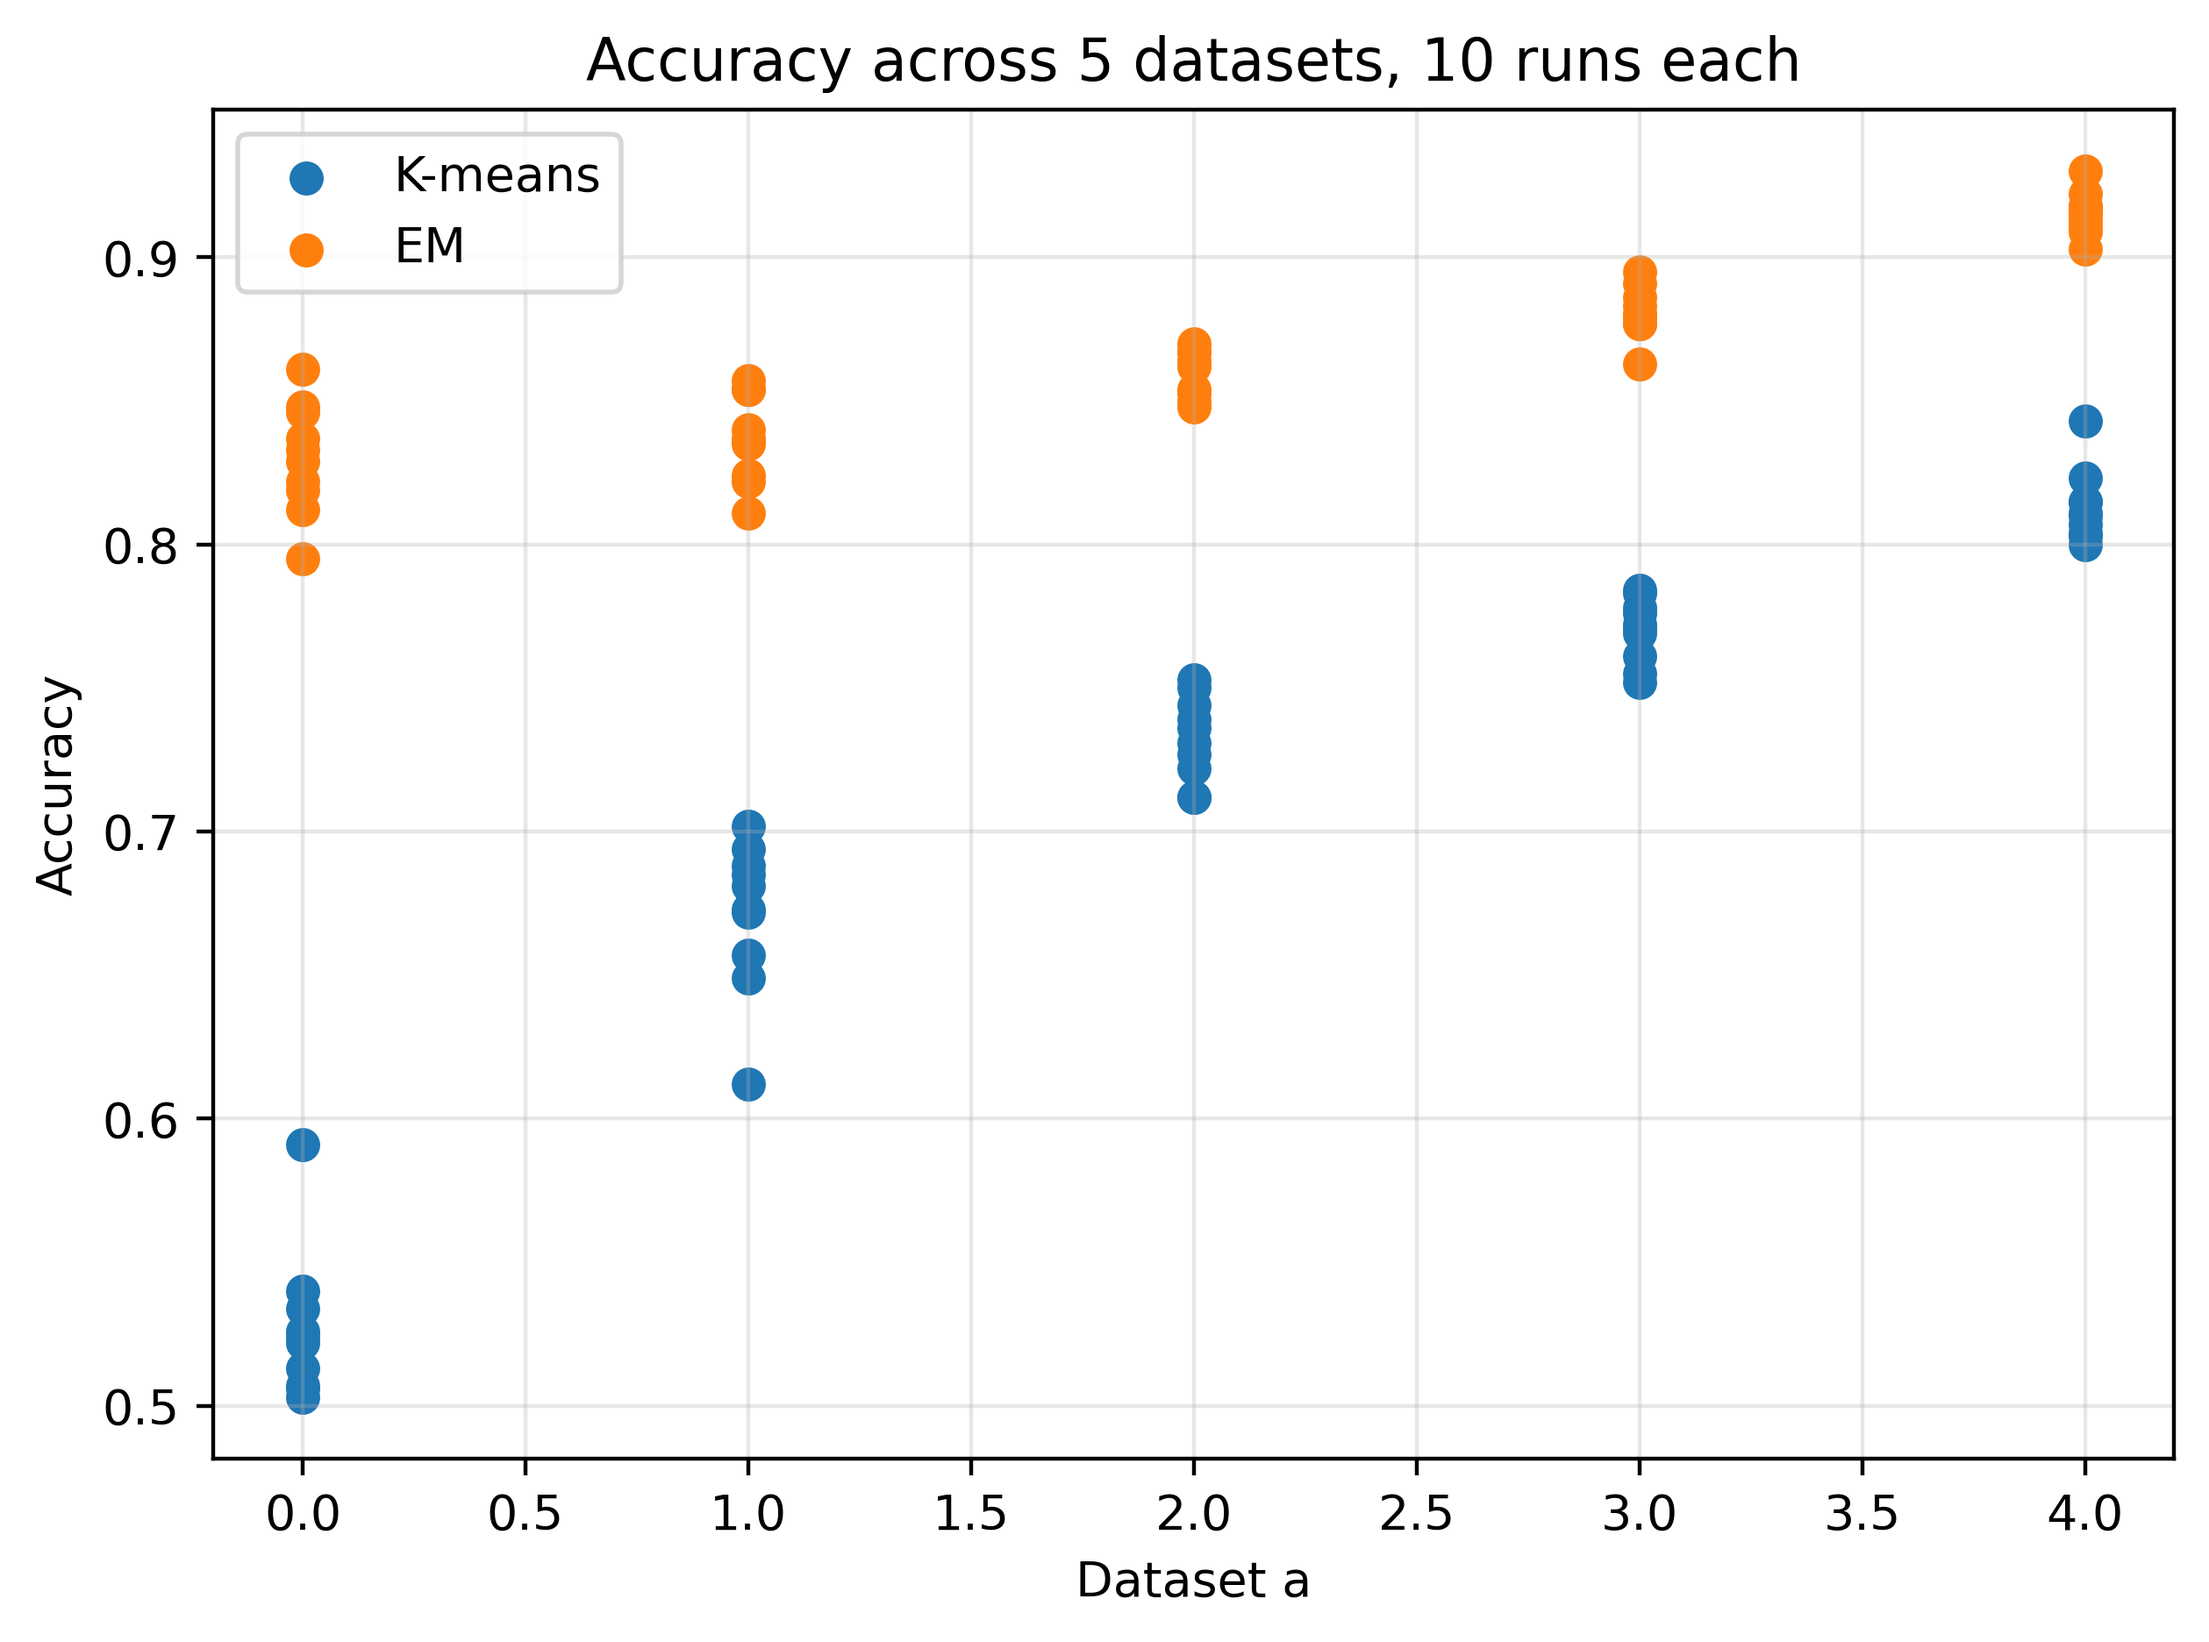
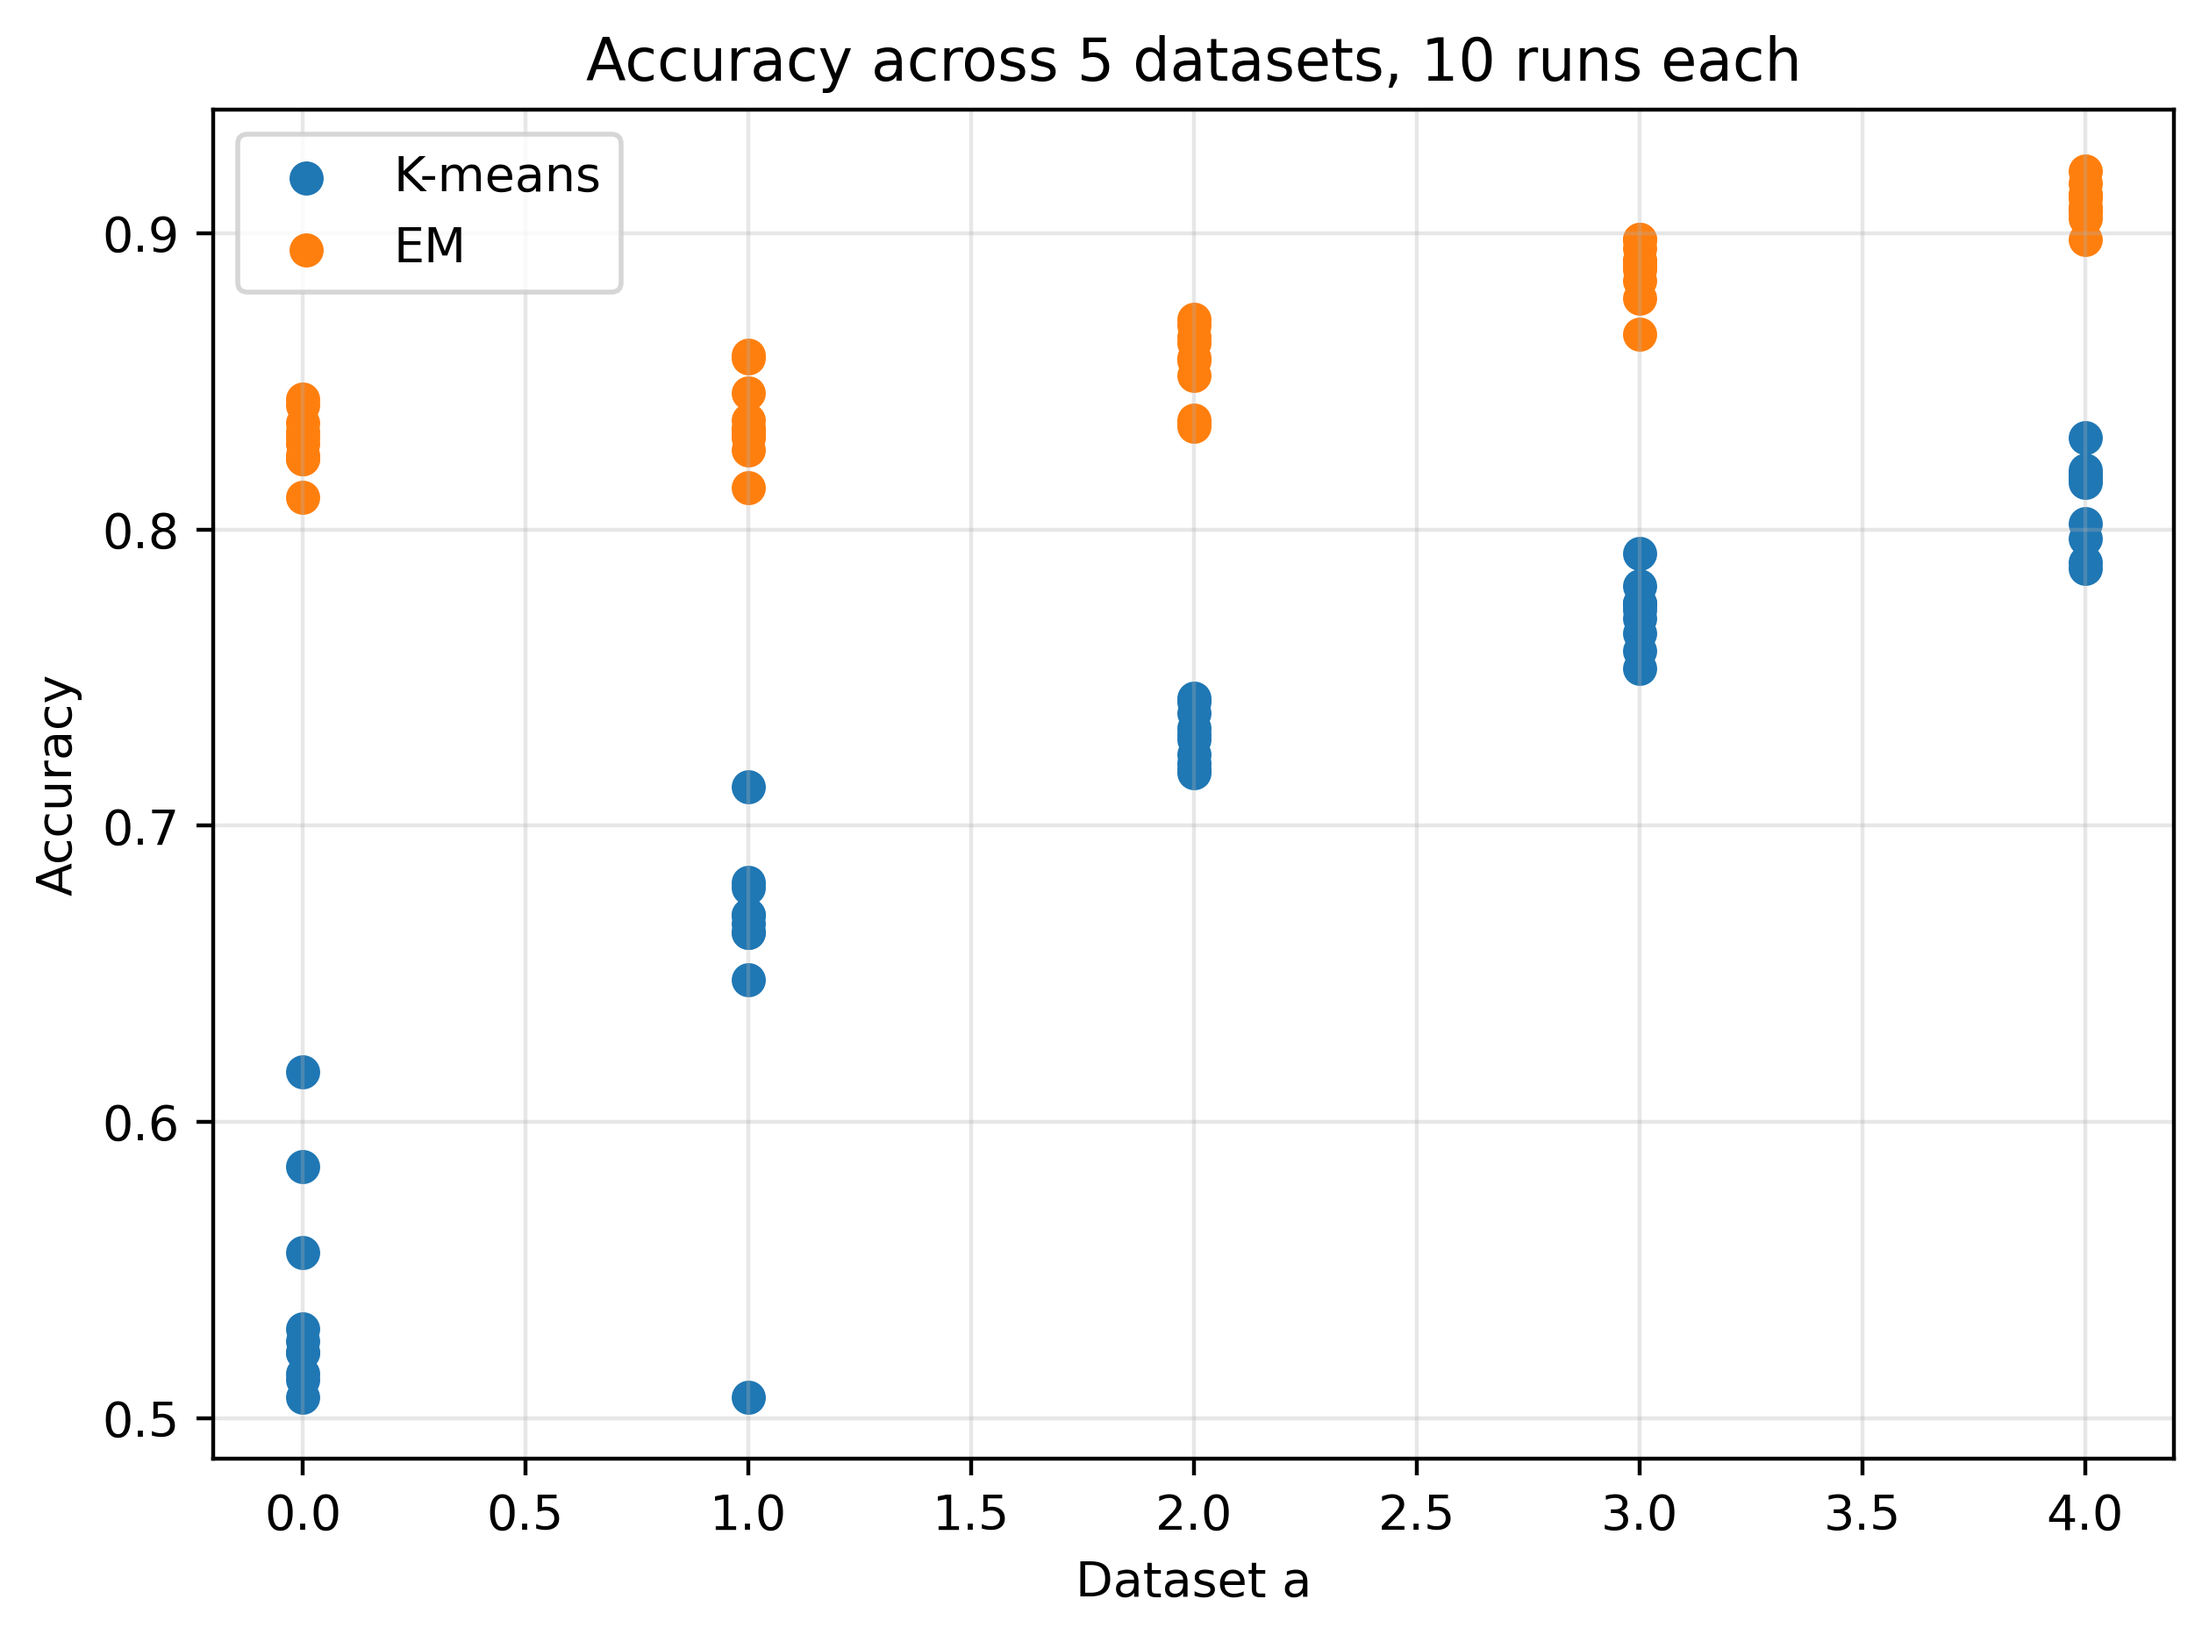
working on custom K-means function

diff --git a/assignments/hw08/code/hw08.py b/assignments/hw08/code/hw08.py
@@ -157,6 +157,76 @@ plt.savefig("assignments/hw08/figures/ari_vs_a.png", dpi=400, bbox_inches="tight
 plt.close()
 #plt.show()
 
+#function to impliment k-means clustering from the slides
+#k-means with either no covariance modelling or full covariance modelling
+def k_means_clustering(X, n_clusters, max_iters=100, tol=1e-6, seed=123,
+                       covariance="identity"):
+    
+    #set random seed and get dimensions
+    np.random.seed(seed)
+    n, d = X.shape
+
+    #get initial centers by randomly sampling from the data points without replacement
+    #https://numpy.org/doc/stable/reference/random/generated/numpy.random.choice.html
+    idx = np.random.choice(n, n_clusters, replace=False)
+    centers = X[idx]
+
+    #initialize covariance matrices and labels.  Set labels to -1 so they are not initialized to any cluster
+    Sigmas = np.tile(np.eye(d), (n_clusters, 1, 1))
+    labels = -np.ones(n, dtype=int)
+
+    for i in range(max_iters):
+
+        old_labels = labels.copy()
+
+        #compute distances
+        dists = np.zeros((n, n_clusters))
+
+        #if branch for covariance type.  
+        if covariance == "identity":
+            for k in range(n_clusters):
+                dists[:, k] = np.linalg.norm(X - centers[k], axis=1)**2
+
+        elif covariance == "full":
+            for k in range(n_clusters):
+                diff = X - centers[k]
+                invS = np.linalg.inv(Sigmas[k])
+                dists[:, k] = np.sum(diff @ invS * diff, axis=1)
+
+        else:
+            raise ValueError("Invalid covariance type.")
+
+        #assign clusters
+        #https://numpy.org/devdocs/reference/generated/numpy.argmin.html
+        labels = np.argmin(dists, axis=1)
+
+        #stop if labels don't change, even if we haven't hit max_iters
+        if np.array_equal(labels, old_labels):
+            break
+
+        #update centers and covariances for each group
+        for k in range(n_clusters):
+
+            cluster_points = X[labels == k]
+
+            if len(cluster_points) == 0:
+                continue
+
+            centers[k] = cluster_points.mean(axis=0)
+
+            #compute the covariance matrix for the cluster if we are using full covariance
+            if covariance == "full":
+                if len(cluster_points) > 1:
+                    Sigmas[k] = np.cov(cluster_points, rowvar=False)
+                else:
+                    Sigmas[k] = np.eye(d)
+
+            #otherwise, just use an identity matrix
+            else:
+                Sigmas[k] = np.eye(d)
+
+    return labels, centers, Sigmas
+
 #need function for KL divergence between two Gaussians
 #I think there may be an extra 2 in the KL formula provided
 #https://mr-easy.github.io/2020-04-16-kl-divergence-between-2-gaussian-distributions/
@@ -180,10 +250,9 @@ def kl_divergence_gaussians(mu1, cov1, mu2, cov2):
 
     return kl_div
 
-#do we also need a function for the k-means with full covariance matrices?
-
 #part b
 results = []
+plot_runs = []
 
 for i in range(10):
     #each element is from a standard normal distibubtion
@@ -213,6 +282,7 @@ for i in range(10):
     )
     YP = np.ones(500)
 
+    #stack everything together
     X = np.vstack([XQ, XP])
     y = np.concatenate([YQ, YP])
 
@@ -223,60 +293,90 @@ for i in range(10):
         mu2=np.array([0.0,0.0]),
         cov2=Sigma
         )
-    
 
-    #K means with no covariance modelling
-    # kmeans = KMeans(n_clusters=2, n_init=1, random_state=1000+i)
-    # kmeans_labels = kmeans.fit_predict(X)
+    #K means with no covariance modelling (Identity)
+    k_mean_identity_labels, centers_identity, Sigmas_identity = k_means_clustering(X, n_clusters=2, covariance="identity", seed=1000+i)
 
-    # #K means with full covariance matrices
-    # k_mean_full_cov = GaussianMixture(n_components=2, covariance_type="full", n_init=1, random_state=1000+i)
-    # k_mean_full_cov_labels = k_mean_full_cov.fit_predict(X)
+    #K means with full covariance matrices
+    k_means_full_labels, centers_full, Sigmas_full = k_means_clustering(X, n_clusters=2, covariance="full", seed=1000+i)
 
-    # #EM clustering
-    # EM_cluster = GaussianMixture(n_components=2, n_init=1, random_state=1000+i)
-    # EM_cluster_labels = EM_cluster.fit_predict(X)
+    #EM clustering.  Gaussian Mixture impliements EM algorithm.  
+    #https://scikit-learn.org/stable/modules/mixture.html#gmm
+    EM_cluster = GaussianMixture(n_components=2, n_init=1, random_state=1000+i)
+    EM_cluster_labels = EM_cluster.fit_predict(X)
 
-    #add stuff to results list
-    # results.append({
-    #     "kl_divergence": kl,
-    #     "kmeans_labels": kmeans_labels,
-    #     "em_labels": EM_cluster_labels
-    # })
+    #store what we need to plot the three clustering methods for the first four runs
+    if i < 4:
+        plot_runs.append({
+            "run": i,
+            "X": X,
+            "y_true": y,
+            "pred_id": k_mean_identity_labels,
+            "pred_full": k_means_full_labels,
+            "pred_em": EM_cluster_labels,
+        })
 
-#function to impliment k-means clustering from the slides
-#k-means with either no covariance modelling or full covariance modelling
-def k_means_clustering(X, n_clusters, max_iters=100, tol=1e-6, seed=123,
-                       covariance="identity"):
+    #adding everything to the results list
+    results.append({
+        "run": i,
+        "KL_divergence": kl,
+        "accuracy_kmeans_id": conting_matrix(y, k_mean_identity_labels),
+        "ARI_kmeans_id": adjusted_rand_score(y, k_mean_identity_labels),
+        "accuracy_kmeans_full": conting_matrix(y, k_means_full_labels),
+        "ARI_kmeans_full": adjusted_rand_score(y, k_means_full_labels),
+        "accuracy_EM": conting_matrix(y, EM_cluster_labels),
+        "ARI_EM": adjusted_rand_score(y, EM_cluster_labels),
+    })
 
-    np.random.seed(seed)
-    n, d = X.shape
+#plotting the clustering results for the first four runs.  
 
-    #random initialization of cluster centers and covariance matrices
-    idx = np.random.choice(n, n_clusters, replace=False)
-    centers = X[idx]
+#plotting the accuracy bs KL divergence for the three methods across all 10 runs.
+results_df = pd.DataFrame(results)
 
-    #creates K*d*d array of identity matrices.  labels are initialized to -1 for all samples, meaning 
-    #they are not assigned to any cluster.
-    Sigmas = np.tile(np.eye(d), (K, 1, 1))
-    labels = -np.ones(n, dtype=int)
+#add some jitter to see things better
+jitter = 0.02
 
-    for i in range(max_iters):
-        #need a way to track distance from point i to cluster k
-        dists = np.zeros((n, n_clusters))
+KL_id   = results_df["KL_divergence"] + np.random.normal(0, jitter, size=len(results_df))
+KL_full = results_df["KL_divergence"] + np.random.normal(0, jitter, size=len(results_df))
+KL_em   = results_df["KL_divergence"] + np.random.normal(0, jitter, size=len(results_df))
 
-        #different cases for the covariance
-        if covariance == "identity":
-            for k in range(n_clusters):
-                dists[:, k] = np.linalg.norm(X - centers[k], axis=1)**2
-        elif covariance == "full":
-            for k in range(n_clusters):
-                diff = X - centers[k]
-                dists[:, k] = np.sum(diff @ np.linalg.inv(Sigmas[k]) * diff, axis=1)
-        else:
-            raise ValueError("Invalid covariance type.")
-    
-    #https://numpy.org/devdocs/reference/generated/numpy.argmin.html
-    labels = np.argmin(dists, axis=1)
+plt.figure()
+plt.scatter(KL_id, results_df["accuracy_kmeans_id"], label="K-means Identity")
+plt.scatter(KL_full, results_df["accuracy_kmeans_full"], label="K-means Full")
+plt.scatter(KL_em, results_df["accuracy_EM"], label="EM")
+plt.xlabel("KL Divergence")
+plt.ylabel("Accuracy")
+plt.title("Accuracy vs KL Divergence for 3 Clustering Methods\nSmall Jitter Added for Visualization")
+plt.legend()
+plt.grid(alpha=0.3)
+plt.tight_layout()
+plt.savefig("assignments/hw08/figures/KL_vs_Accuracy.png", dpi=400, bbox_inches="tight")
+plt.close()
+#plt.show()
 
-    #do something if the labels haven't changed.
+#reporting the table and reordering the columns
+df = results_df[
+[
+"run",
+"KL_divergence",
+"accuracy_kmeans_id",
+"ARI_kmeans_id",
+"accuracy_kmeans_full",
+"ARI_kmeans_full",
+"accuracy_EM",
+"ARI_EM"
+]
+].round(4)
+
+#need to send this table to LATEX
+LATEX_table = df.to_latex(
+    index=False,
+    caption=None,
+    label=None,
+    column_format="c" * df.shape[1],
+    escape=True
+)
+
+#save latex table
+with open("assignments/hw08/output/final_table.tex", "w") as f:
+    f.write(LATEX_table)
